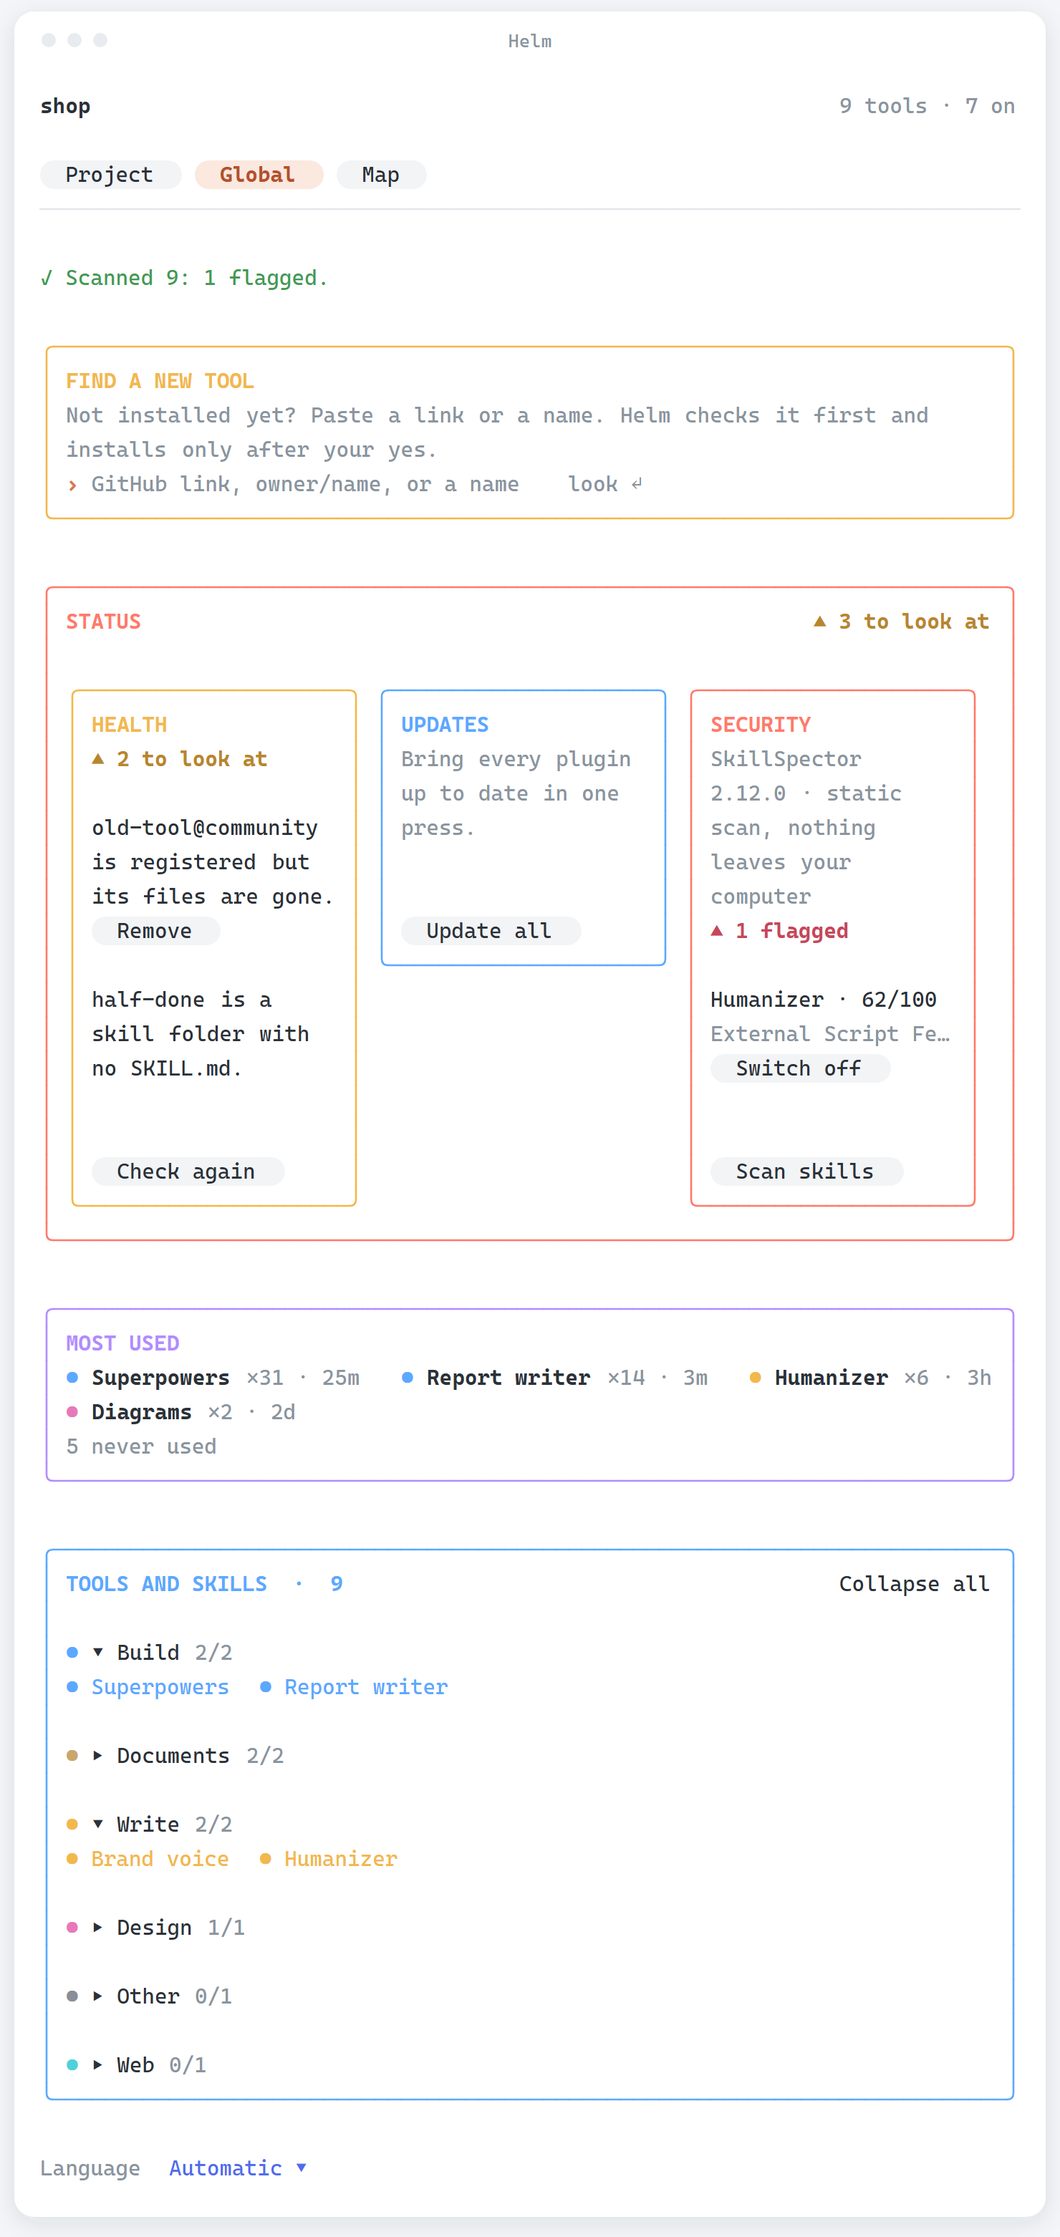
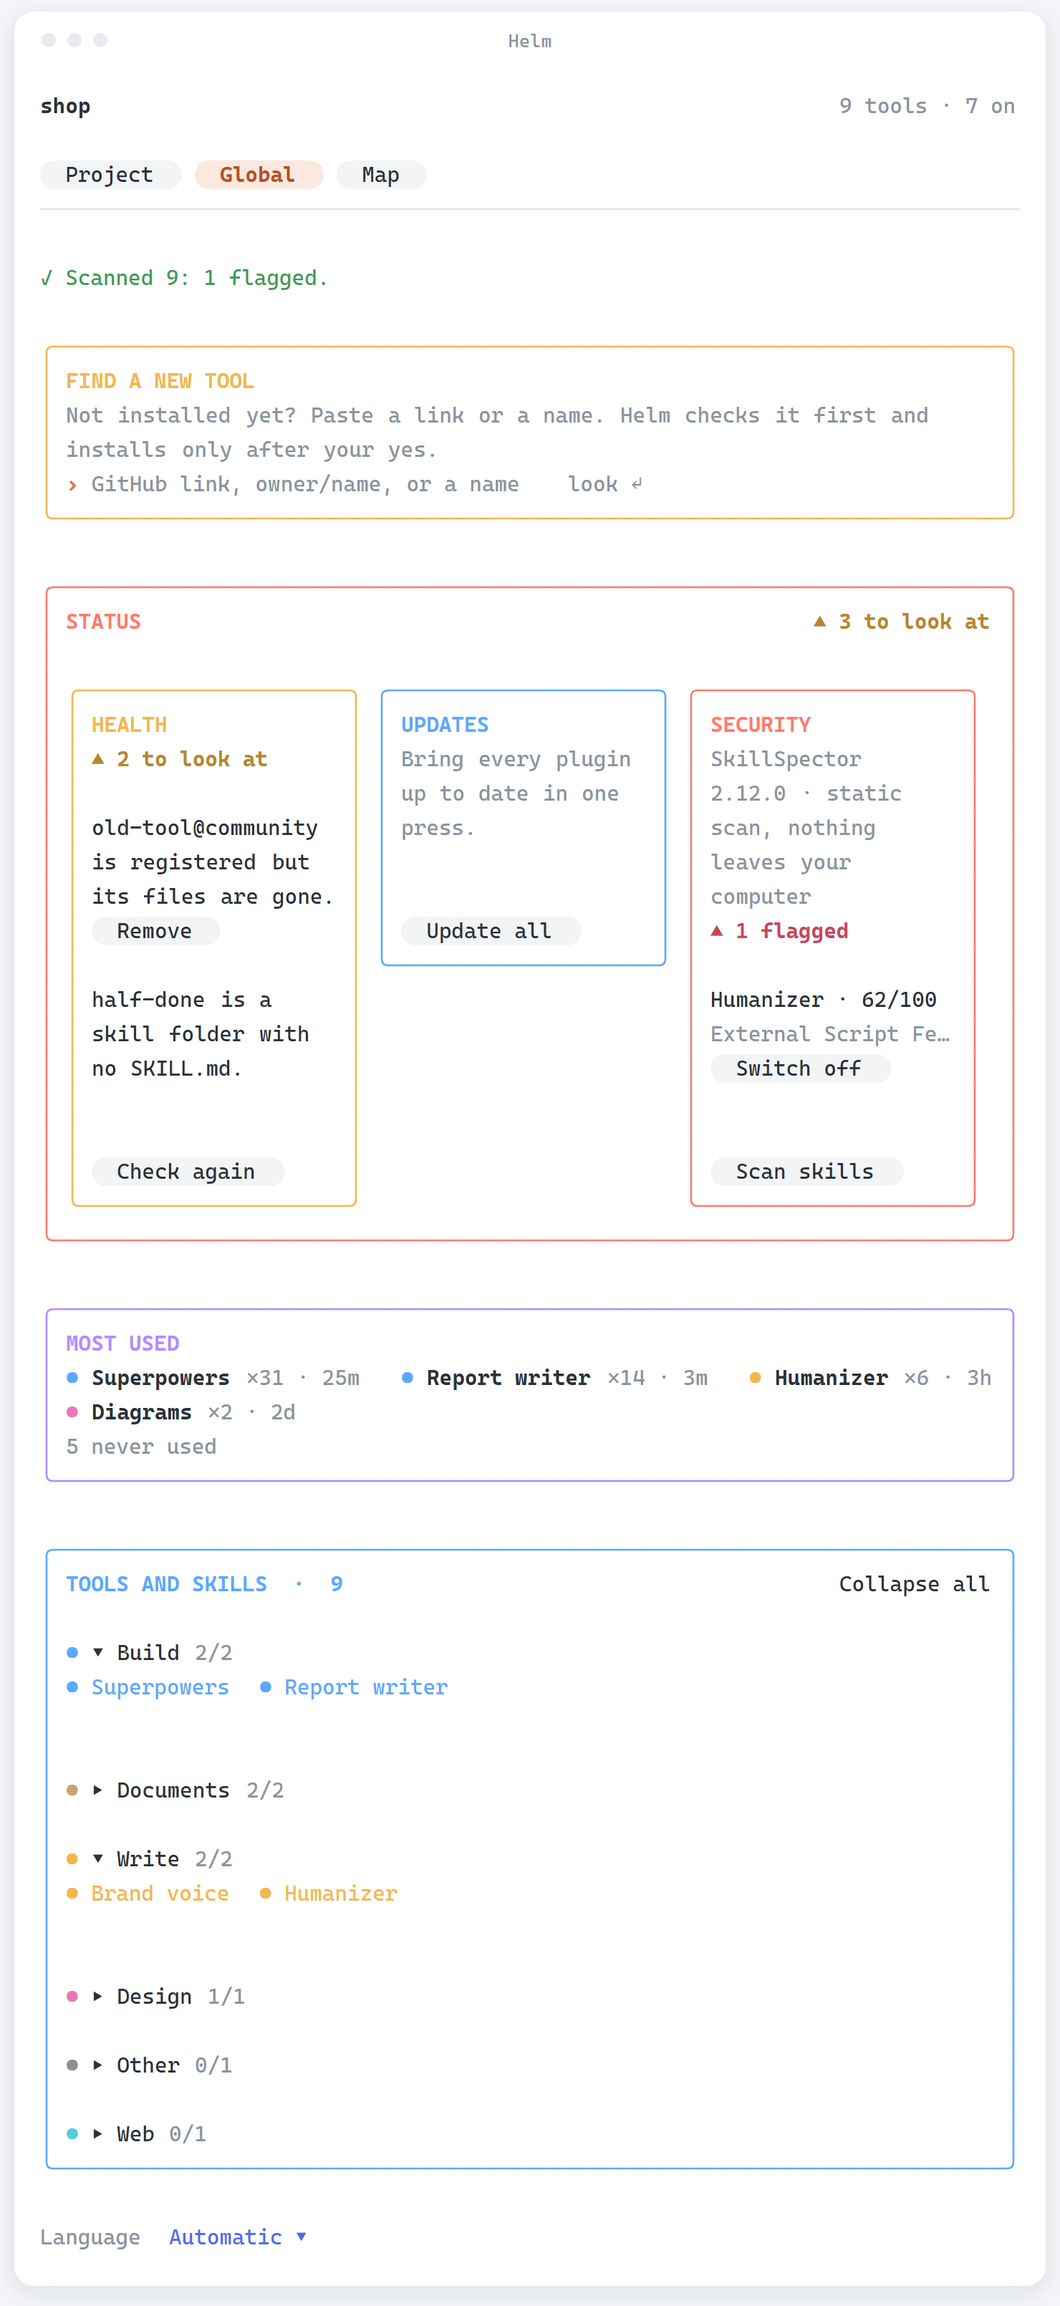
fix: plugin removal in any scope, no white bars on the map, info that does not cover the list

diff --git a/hooks/register.tsx b/hooks/register.tsx
@@ -49,6 +49,7 @@ const core = atom(
     state: null,
     chat: false,
     busy: false,
+    failed: false,
     ask: null,
   } as Core,
 )
@@ -62,13 +63,20 @@ const ignoreKey = (key: string) => `ignored:${key}`
 /** A line in the panel's footer, in the language shown. */
 async function say($: any, key: Key, ...vars: (string | number)[]) {
   const c = await read($, core)
-  await update($, core, s => ({ ...s, busy: false, message: t(c.lang, key, ...vars) }))
+  await update($, core, s => ({ ...s, busy: false, failed: false, message: t(c.lang, key, ...vars) }))
+}
+
+/** The same, for something that did not work: shown in red, with the reason when there is one. */
+async function fail($: any, key: Key, why: string, ...vars: (string | number)[]) {
+  const c = await read($, core)
+  const reason = why.trim().split('\n')[0].slice(0, 160)
+  await update($, core, s => ({ ...s, busy: false, failed: true, message: `${t(c.lang, key, ...vars)}${reason ? ` ${reason}` : ''}` }))
 }
 
 /** A line that says something is under way: the top of the panel shows it with a mark, until `say` or a result replaces it. */
 async function work($: any, key: Key, ...vars: (string | number)[]) {
   const c = await read($, core)
-  await update($, core, s => ({ ...s, busy: true, message: t(c.lang, key, ...vars) }))
+  await update($, core, s => ({ ...s, busy: true, failed: false, message: t(c.lang, key, ...vars) }))
 }
 
 async function setState($: any, state: ProjectState) {
@@ -242,6 +250,32 @@ async function runUpdate($: any) {
   await say($, 'msg.updated', ok, ids.length)
 }
 
+/**
+ * Takes a plugin out. The command only knows the scope a plugin was installed in, and a plugin listed
+ * under another scope fails with the default one, so each scope is tried; as a last resort the entry
+ * is removed from the registry by hand, after a copy of the file is kept next to it.
+ */
+async function removePlugin($: any, dir: string, id: string): Promise<{ ok: boolean; why: string }> {
+  let why = ''
+  for (const scope of ['user', 'project', 'local']) {
+    const r = await $.process.run(['claude', 'plugin', 'uninstall', '--scope', scope, id], { timeoutMs: 60_000 }).catch(() => ({ exitCode: -1, stderr: '' }))
+    if (r.exitCode === 0) return { ok: true, why: '' }
+    why = String(r.stderr || r.stdout || why)
+  }
+  const file = `${dir}/plugins/installed_plugins.json`
+  try {
+    const text = (await $.fs.read(file)) as string
+    const registry = JSON.parse(text)
+    if (!registry.plugins || !(id in registry.plugins)) return { ok: false, why }
+    await $.fs.write(`${file}.helm-backup`, text)
+    delete registry.plugins[id]
+    await $.fs.write(file, JSON.stringify(registry, null, 2))
+    return { ok: true, why: '' }
+  } catch {
+    return { ok: false, why }
+  }
+}
+
 /** The only fix Helm runs: it needs the second press on the same issue. */
 async function fixIssue($: any, key: string) {
   const c = await read($, core)
@@ -249,8 +283,8 @@ async function fixIssue($: any, key: string) {
   if (!issue?.fix) return
   if (c.confirm !== key) return void (await update($, core, s => ({ ...s, confirm: key })))
   await work($, 'msg.removing', issue.a)
-  const r = await $.process.run(issue.fix, { timeoutMs: 60_000 }).catch(() => ({ exitCode: -1 }))
-  if (r.exitCode !== 0) return say($, 'msg.cannotFix', issue.a)
+  const done = issue.kind === 'stale-plugin' ? await removePlugin($, c.dir, issue.a) : await $.process.run(issue.fix, { timeoutMs: 60_000 }).then((r: any) => ({ ok: r.exitCode === 0, why: String(r.stderr ?? '') })).catch(() => ({ ok: false, why: '' }))
+  if (!done.ok) return fail($, 'msg.cannotFix', done.why, issue.a)
   // The index drops the plugin too, so the map and the lists match what is installed.
   await update($, core, s => ({ ...s, index: (s.index ?? []).filter(x => x.key !== key) }))
   await runCheckup($)
@@ -456,12 +490,12 @@ async function toggleTool($: any, key: string) {
   const off = entry.on
   if (entry.kind === 'plugin') {
     const r = await $.process.run(['claude', 'plugin', off ? 'disable' : 'enable', key.slice(7)], { timeoutMs: 60_000 }).catch(() => null)
-    if (!r || r.exitCode !== 0) return say($, 'msg.cannotFix', entry.name)
+    if (!r || r.exitCode !== 0) return fail($, 'msg.cannotFix', String(r?.stderr ?? ''), entry.name)
   } else {
     const file = `${c.dir}/settings.json`
     const text = (await $.fs.exists(file)) ? ((await $.fs.read(file)) as string) : ''
     const next = setSkillOff(text, key.slice(6), off)
-    if (next === null) return say($, 'msg.badjson')
+    if (next === null) return fail($, 'msg.badjson', '')
     await $.fs.write(file, next)
   }
   await update($, core, s => ({ ...s, index: (s.index ?? []).map(x => (x.key === key ? { ...x, on: !off } : x)), message: t(c.lang, off ? 'msg.switchedOff' : 'msg.switchedOn', entry.name) }))
@@ -512,7 +546,7 @@ export const register: Register = on => {
     const pref = (saidPref === 'auto' || isLang(saidPref) ? saidPref : 'auto') as Core['pref']
     const lang = pref === 'auto' ? await systemLang($) : (pref as Lang)
     const scans = ((await $.store.get('scans')) as Core['scans'] | undefined) ?? {}
-    await update($, core, () => ({ scanner: { state: 'unknown', version: null } as Core['scanner'], scans, scanning: null, anyway: null, lang, pref, usage: null, uses, hint: null, used: {}, tick: 0, found: null, hits: null, setup, candidates, dir: configDir, message: null, report: null, confirm: null, index, project, state: project ? (saved ?? 'new') : null, chat: false, busy: false, ask: null }))
+    await update($, core, () => ({ scanner: { state: 'unknown', version: null } as Core['scanner'], scans, scanning: null, anyway: null, lang, pref, usage: null, uses, hint: null, used: {}, tick: 0, found: null, hits: null, setup, candidates, dir: configDir, message: null, report: null, confirm: null, index, project, state: project ? (saved ?? 'new') : null, chat: false, busy: false, failed: false, ask: null }))
     await refreshUsage($)
     void runCheckup($).catch(() => {})
     await probeScanner($)

diff --git a/src/views/panel.tsx b/src/views/panel.tsx
@@ -103,7 +103,7 @@ export function Panel({ ui, c, n, github, act, terminal, width, map, now, lang }
       {rule}
       {topLine && (
         <Box marginTop={1}>
-          <Text color={c.busy || c.scanning ? 'suggestion' : 'success'}>{`${c.busy || c.scanning ? '◌ ' : '✓ '}${topLine}`}</Text>
+          <Text color={c.failed ? 'error' : c.busy || c.scanning ? 'suggestion' : 'success'}>{`${c.failed ? '✗ ' : c.busy || c.scanning ? '◌ ' : '✓ '}${topLine}`}</Text>
         </Box>
       )}
     </Box>
@@ -418,32 +418,31 @@ export function Panel({ ui, c, n, github, act, terminal, width, map, now, lang }
               <Text dimColor>{`${r.on}/${r.total}`}</Text>
             </Box>
             {isOpen && (
-              <Box flexDirection="row" flexWrap="wrap" columnGap={2} paddingLeft={3}>
-                {items.map(x => {
-                  const u = c.uses[x.key]
-                  return (
-                    <Box key={`tip-${x.key}`}>
+              <Box flexDirection="column" paddingLeft={3}>
+                <Box flexDirection="row" flexWrap="wrap" columnGap={2}>
+                  {items.map((x, i) => (
+                    <Box key={`tip-${x.key}`} hover={{ scope: `${r.category}:${i}` }}>
                       <Text color={x.on ? hex(r.category) : 'inactive'}>{`${x.on ? '●' : '○'} ${x.name}`}</Text>
-                      {/* The card that appears over the list while the pointer is on the name. */}
-                      {(() => {
-                        const cw = Math.min(52, Math.max(30, width - 10))
-                        const iw = cw - 2
-                        const fill = (text: string) => ` ${text}`.padEnd(iw, ' ').slice(0, iw)
-                        const meta = `${T(`cat.${x.category}` as Key)} · ${x.on ? T('map.on') : T('map.off')}${u ? ` · ${T('map.uses', u.n)}` : ''}`
-                        const lines = [fill(''), fill(x.name), fill(meta), fill(''), ...wrap(x.description || '—', iw - 2, 4).map(fill), fill('')]
-                        return (
-                          <Box position="absolute" top={1} left={0} display="none" hover={{ display: 'flex' }} flexDirection="column" borderStyle="round" borderColor={hex(r.category)} backgroundColor="#1c1f26" width={cw}>
-                            {lines.map((line, i) => (
-                              <Text key={`tl-${i}`} bold={i === 1} color={i === 2 ? '#9aa3b2' : '#e6e9ef'} backgroundColor="#1c1f26">
-                                {line}
-                              </Text>
-                            ))}
-                          </Box>
-                        )
-                      })()}
                     </Box>
-                  )
-                })}
+                  ))}
+                </Box>
+                {/* What the name under the pointer is: a fixed place under the list, so nothing is covered and nothing moves. */}
+                <Box key={`slot-${r.category}`} flexDirection="column" height={5} marginTop={1} overflow="hidden">
+                  {items.map((x, i) => {
+                    const u = c.uses[x.key]
+                    return (
+                      <Box key={`info-${x.key}`} display="none" hover={{ scope: `${r.category}:${i}`, display: 'flex' }} flexDirection="column">
+                        <Text bold color={hex(r.category)}>
+                          {x.name}
+                        </Text>
+                        <Text dimColor>{`${T(`cat.${x.category}` as Key)} · ${x.on ? T('map.on') : T('map.off')}${u ? ` · ${T('map.uses', u.n)}` : ''}`}</Text>
+                        {wrap(x.description || '—', Math.max(30, width - 12), 3).map((line, j) => (
+                          <Text key={`d-${j}`}>{line}</Text>
+                        ))}
+                      </Box>
+                    )
+                  })}
+                </Box>
               </Box>
             )}
           </Box>

diff --git a/tests/remove.test.tsx b/tests/remove.test.tsx
@@ -1,0 +1,65 @@
+import { expect, test } from 'claude-code/testing'
+
+import { boot, PROJECT, world } from './world'
+
+const PANE_PROPS = { title: 'Helm', isFocused: true, bodyColumns: 80, placement: 'inline', scroll: {}, view: {} } as any
+const textOf = async (ui: any) => (await ui.findAll({ type: 'Text' })).map((t: any) => t.text).join('\n')
+
+const REGISTRY_FILE = '/helm-demo-home/.claude/plugins/installed_plugins.json'
+const REGISTRY = JSON.stringify({
+  plugins: {
+    'tdd@m': [{ installPath: '/helm-demo-home/.claude/cache/tdd' }],
+    'seo@m': [{ installPath: '/helm-demo-home/.claude/cache/seo' }],
+    'gone@m': [{ installPath: '/helm-demo-home/.claude/cache/gone' }],
+  },
+})
+
+const open = async ($: any) => {
+  const ui = await $.ui.mount({ plugin: 'helm', surface: 'desktop', component: 'Pane', props: PANE_PROPS, requestId: 'helm' })
+  await ui.press({ key: 'global' })
+  await ui.press({ key: 'check' })
+  return ui
+}
+
+test('a plugin installed under another scope is removed, trying each scope', async ($, on) => {
+  const w = world($, on, {
+    files: [[REGISTRY_FILE, REGISTRY]],
+    // The command only works for the scope the plugin sits in.
+    run: argv => (argv.includes('uninstall') && argv.includes('local') ? { exitCode: 0, stdout: '', stderr: '' } : { exitCode: 1, stdout: '', stderr: 'not installed at user scope' }),
+  })
+  await boot($, PROJECT)
+  const ui = await open($)
+  await ui.press({ key: 'fix-plugin:gone@m' })
+  await ui.press({ key: 'fix-plugin:gone@m' })
+  expect(w.ran.some(a => a.includes('uninstall') && a.includes('local'))).toBe(true)
+  expect(await textOf(ui)).not.toContain('Could not fix')
+})
+
+test('when every command fails the entry is taken out by hand, with a copy kept', async ($, on) => {
+  const w = world($, on, {
+    files: [[REGISTRY_FILE, REGISTRY]],
+    run: argv => (argv.includes('uninstall') ? { exitCode: 1, stdout: '', stderr: 'boom' } : { exitCode: 0, stdout: '', stderr: '' }),
+  })
+  await boot($, PROJECT)
+  const ui = await open($)
+  await ui.press({ key: 'fix-plugin:gone@m' })
+  await ui.press({ key: 'fix-plugin:gone@m' })
+  const now = JSON.parse(w.files.get(REGISTRY_FILE) as string)
+  expect(Object.keys(now.plugins)).toEqual(['tdd@m', 'seo@m'])
+  expect(w.files.has(`${REGISTRY_FILE}.helm-backup`)).toBe(true)
+})
+
+test('a name in an opened category has an info block revealed in a fixed slot, never over the list', async ($, on) => {
+  world($, on)
+  await boot($, PROJECT)
+  const ui = await $.ui.mount({ plugin: 'helm', surface: 'desktop', component: 'Pane', props: PANE_PROPS, requestId: 'helm' })
+  await ui.press({ key: 'global' })
+  await ui.press({ key: 'fold-all' })
+  const drawn = JSON.stringify(await ui.drawn())
+  const scopes = [...drawn.matchAll(/"scope":"([^"]+)"/g)].map(m => m[1])
+  // Each scope is named twice: by the name and by its info block.
+  const counts = scopes.reduce<Record<string, number>>((n, s) => ({ ...n, [s]: (n[s] ?? 0) + 1 }), {})
+  expect(Object.keys(counts).length).toBeGreaterThan(2)
+  expect(Object.values(counts).every(n => n === 2)).toBe(true)
+  expect(drawn).not.toContain('"position":"absolute"')
+})

diff --git a/src/graph.ts b/src/graph.ts
@@ -128,17 +128,17 @@ export function svg(lay: Layout, used: Record<string, number>, now: number, opts
   const dots = lay.nodes.filter(n => !n.hub)
 
   const build = (descLines: number, tips = true): string => {
-    const out: string[] = [`<svg xmlns="http://www.w3.org/2000/svg" viewBox="${view}" width="${W}" height="${H}">`]
+    const out: string[] = [`<svg xmlns="http://www.w3.org/2000/svg" viewBox="${view}" width="${W}" height="${H}" style="background:${BG}">`]
     // Hover is plain CSS: the frame has no script. Each dot has a hit circle, and the card of dot i follows it.
     const ci = (cat: string) => Math.max(0, Object.keys(COLOR).indexOf(cat))
     const css = ['.h{cursor:pointer;fill:#000;fill-opacity:0.001}', '.t{opacity:0;pointer-events:none}', '.h:hover{stroke:#fff;stroke-opacity:0.9;stroke-width:1.5}', '.t rect{fill:#1a1f2e;stroke-opacity:0.8}', '.t text{fill:#9aa3b2;font:11px sans-serif}', '.t .a{fill:#fff;font:bold 13px sans-serif}', '.t .d{fill:#d4d9e4;font:11.5px sans-serif}']
     Object.keys(COLOR).forEach((cat, i) => css.push(`.f${i}{fill:${hex(color(cat))};fill-opacity:0.92}.s${i}{fill:none;stroke:${hex(color(cat))};stroke-opacity:0.55;stroke-width:1.4}.k${i} rect{stroke:${hex(color(cat))}}`))
     if (tips) dots.forEach((_, i) => css.push(`.h${i}:hover~.t${i}{opacity:1}`))
     out.push(`<style>${css.join('')}</style>`)
-    out.push(`<rect width="${W}" height="${H}" rx="20" fill="${BG}"/>`)
+    out.push(`<rect x="-2000" y="-2000" width="${W + 4000}" height="${H + 4000}" fill="${BG}"/>`)
     out.push(
       '<defs><radialGradient id="bg" cx="50%" cy="50%" r="60%"><stop offset="0" stop-color="#1c2236"/><stop offset="1" stop-color="#0e1016" stop-opacity="0"/></radialGradient></defs>' +
-        `<rect width="${W}" height="${H}" rx="20" fill="url(#bg)"/>`,
+        `<rect width="${W}" height="${H}" fill="url(#bg)"/>`,
     )
     for (const r of [110, 210, 310]) out.push(`<circle cx="${W / 2}" cy="${H / 2}" r="${r}" fill="none" stroke="#ffffff" stroke-opacity="0.04"/>`)
     // A slow ripple from the middle, so the picture is never still.
@@ -181,7 +181,7 @@ export function svg(lay: Layout, used: Record<string, number>, now: number, opts
       const x = n.x.toFixed(0)
       const y = n.y.toFixed(0)
       const lit = glow(used, n.key, now)
-      const inFocus = !!focus && n.cat === opts.zoom && (total.get(n.cat)?.n ?? 0) <= 90
+      const inFocus = false
       const named = lit > 0 || (opts.uses?.[n.key] ?? 0) > 0 || inFocus
       const r = named ? 5.5 : 4.4
       // Names face outward from the hub, so neighbours on a ring do not write over each other.

diff --git a/tests/graph.test.ts b/tests/graph.test.ts
@@ -45,14 +45,13 @@ describe('the map', () => {
     expect(text).toContain('Does a thing &amp; more &lt;b&gt; for you')
   })
 
-  test('zooming on a category frames its cluster and names every dot in it', () => {
+  test('zooming on a category frames its cluster, and the canvas is filled so no white shows', () => {
     const lay = layout(INDEX)
     const whole = svg(lay, {}, 0)
     const near = svg(lay, {}, 0, { zoom: 'build' })
     expect(whole).toContain('viewBox="0 0 1000 600"')
     expect(near).not.toContain('viewBox="0 0 1000 600"')
-    expect((near.match(/font-size="5.5"/g) ?? []).length).toBeGreaterThan(0)
-    expect(whole).not.toContain('font-size="5.5"')
+    expect(near).toContain('style="background:#0e1016"')
   })
 
   test('the terminal grid has columns x rows x 3 words', () => {

diff --git a/types/index.d.ts b/types/index.d.ts
@@ -107,6 +107,8 @@ export type Core = {
   chat: boolean
   /** Something is under way: the top line shows it with a mark. */
   busy: boolean
+  /** The line at the top is about something that did not work. */
+  failed: boolean
   ask: Ask | null
 }
 

diff --git a/CHANGELOG.md b/CHANGELOG.md
@@ -6,6 +6,19 @@ All notable changes are listed here. The format follows
 
 ## [Unreleased]
 
+## [0.9.2] - 2026-10-06
+
+### Fixed
+
+- **Removing a plugin works whatever its scope.** The command only removes a plugin from the scope it was installed in, and the default scope failed for plugins listed under another one ("Could not fix"). Helm now tries every scope, and if none works it takes the entry out of the plugin registry itself, keeping a copy next to it (`installed_plugins.json.helm-backup`). A failure is shown in red with the reason, not as a green check.
+- **No white bars around the Map.** The frame behind the picture is white; the picture now paints the whole canvas itself, so a frame of any shape shows only the map.
+- **The info on a tool no longer covers the list.** Hovering a name in Tools and skills shows its card in a fixed place under that category's list: nothing is overlaid, so nothing can show through.
+- **Zooming the Map is clean.** A zoomed category shows bigger dots with their hover cards, without a wall of overlapping names.
+
+### Known limit
+
+- The mouse wheel cannot zoom the Map: the engine gives a mod no wheel or drag events, and the picture runs no script. Zoom is by category chips.
+
 ## [0.9.1] - 2026-10-06
 
 ### Fixed
@@ -162,7 +175,8 @@ First release.
   items (README, CI, `SECURITY.md`, Dependabot, branch protection and more); a short brief rides once on
   the first prompt of the project.
 
-[Unreleased]: https://github.com/rlpb/helm/compare/v0.9.1...HEAD
+[Unreleased]: https://github.com/rlpb/helm/compare/v0.9.2...HEAD
+[0.9.2]: https://github.com/rlpb/helm/compare/v0.9.1...v0.9.2
 [0.9.1]: https://github.com/rlpb/helm/compare/v0.9.0...v0.9.1
 [0.9.0]: https://github.com/rlpb/helm/compare/v0.8.1...v0.9.0
 [0.8.1]: https://github.com/rlpb/helm/compare/v0.8.0...v0.8.1

diff --git a/SECURITY.md b/SECURITY.md
@@ -38,7 +38,7 @@ signed with a short-lived certificate GitHub issues to the workflow run that
 made it. It names the repository, the workflow and the commit:
 
 ```bash
-gh attestation verify helm-0.9.1.zip --repo rlpb/helm
+gh attestation verify helm-0.9.2.zip --repo rlpb/helm
 ```
 
 The command exits with an error for a file this repository's release workflow

diff --git a/README.it.md b/README.it.md
@@ -59,7 +59,7 @@ Le release sono costruite dal workflow di release a partire da un commit con tag
 
 ```bash
 sha256sum -c SHA256SUMS.txt
-gh attestation verify helm-0.9.1.zip --repo rlpb/helm
+gh attestation verify helm-0.9.2.zip --repo rlpb/helm
 ```
 
 ## Supporto

diff --git a/README.md b/README.md
@@ -59,7 +59,7 @@ Releases are built by the release workflow from a tagged commit, with a SHA-256 
 
 ```bash
 sha256sum -c SHA256SUMS.txt
-gh attestation verify helm-0.9.1.zip --repo rlpb/helm
+gh attestation verify helm-0.9.2.zip --repo rlpb/helm
 ```
 
 ## Support
